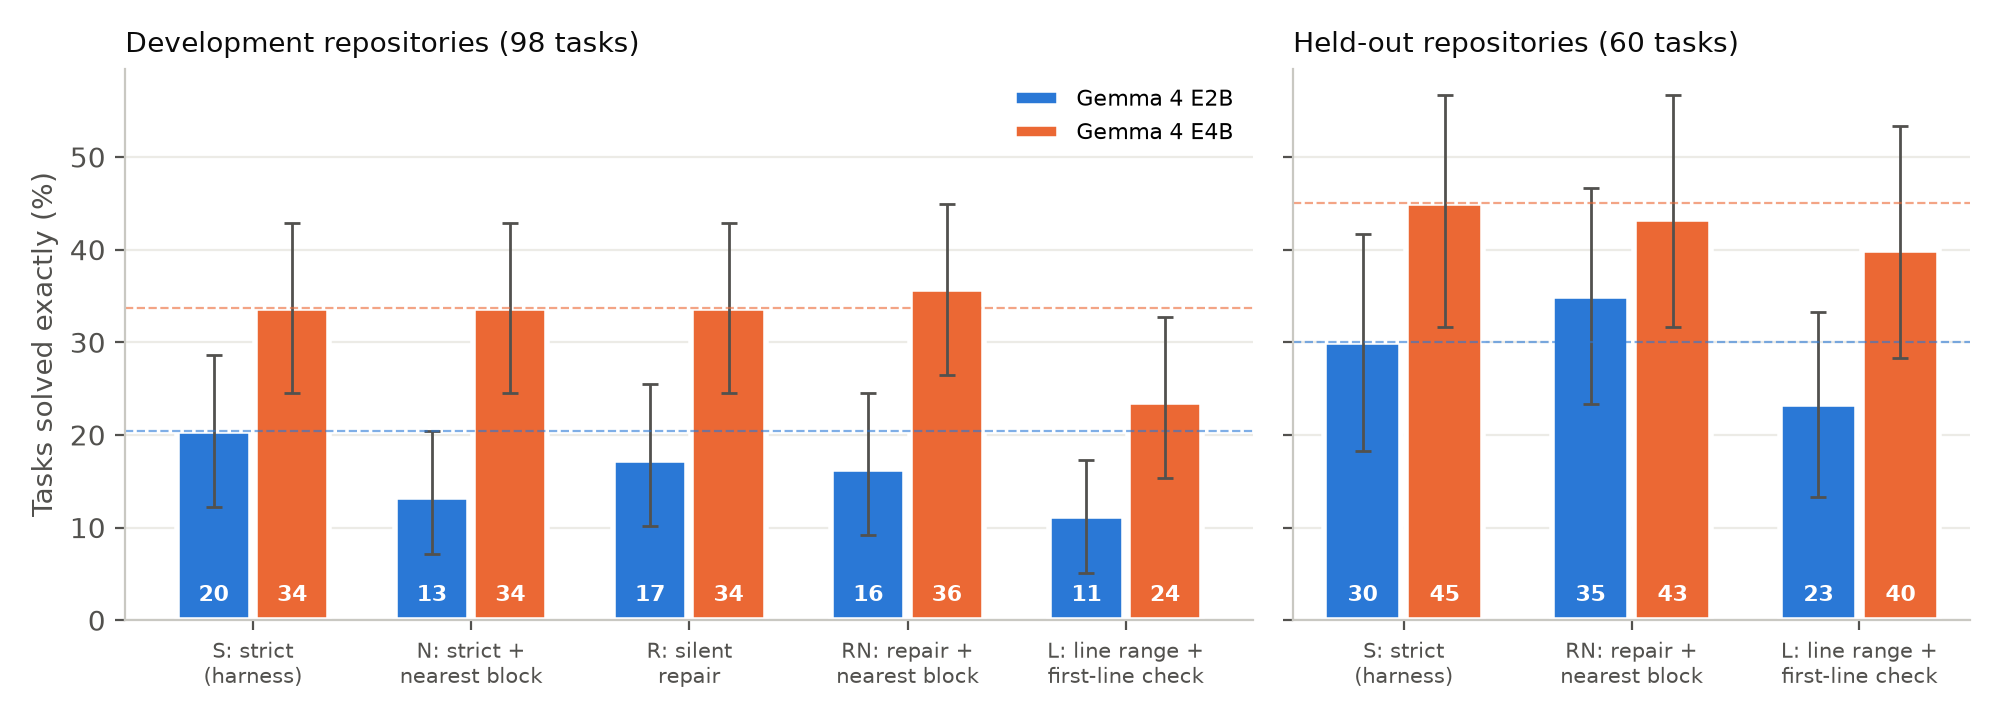
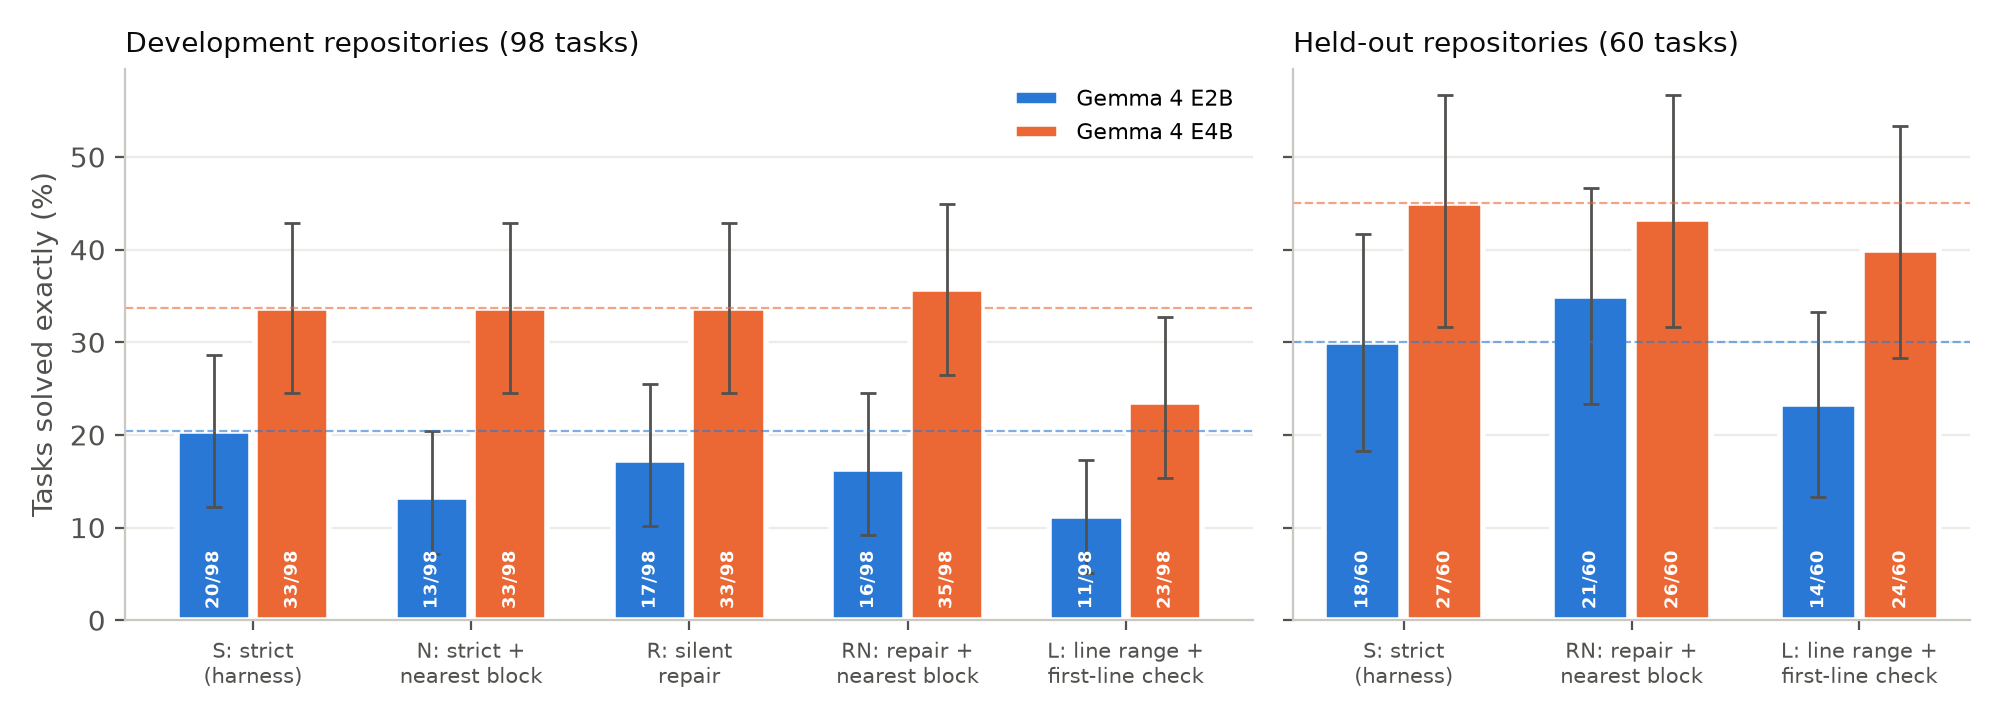
Review fixes: paired-difference CIs, Fig. 1 count labels, reproducible splits
- extra_analysis.py: 95% bootstrap interval for each condition-minus-S solved difference
  and the difference a McNemar test detects with ~80% power (results/extra.json)
- make_figs.py: Figure 1 bars labelled with task counts (solved/n); axis stays percent
- cut_splits.py: cut dev100/holdout60 from the pools (first 25/20 per repository);
  reproduces both files byte for byte
- README: clone commands for the seven repositories at pinned commits (rebuilding from
  them reproduces data/dev.jsonl and data/holdout.jsonl in order), and the details of the
  two mid-run changes moved out of the paper

diff --git a/make_figs.py b/make_figs.py
@@ -29,20 +29,21 @@ def fig1():
                              (axes[1], "holdout60", "Held-out repositories (60 tasks)")]:
         present = [(c, lab) for c, lab in conds if any(S.get(key(m, split, "target", c)) for m in ("E2B", "E4B"))]
         for mi, (model, color) in enumerate([("E2B", BLUE), ("E4B", ORANGE)]):
-            xs, ys, lo, hi = [], [], [], []
+            xs, ys, lo, hi, cnt = [], [], [], [], []
             for ci, (c, _) in enumerate(present):
                 r = S.get(key(model, split, "target", c))
                 if not r:
                     continue
                 xs.append(ci + (mi - 0.5) * 0.36)
                 ys.append(r["solved_rate"] * 100)
+                cnt.append(f"{r['solved']}/{r['n']}")
                 lo.append((r["solved_rate"] - r["solved_ci95"][0]) * 100)
                 hi.append((r["solved_ci95"][1] - r["solved_rate"]) * 100)
             if xs:
                 ax.bar(xs, ys, width=0.34, color=color, label=f"Gemma 4 {model}", edgecolor="white", linewidth=2)
                 ax.errorbar(xs, ys, yerr=[lo, hi], fmt="none", ecolor=INK2, elinewidth=1, capsize=3)
-                for x, y in zip(xs, ys):
-                    ax.text(x, 1.5, f"{y:.0f}", ha="center", va="bottom", fontsize=8, color="white", weight="bold")
+                for x, k in zip(xs, cnt):  # task counts, e.g. 20/98; the axis is percent
+                    ax.text(x, 1.2, k, ha="center", va="bottom", fontsize=6.5, color="white", weight="bold", rotation=90)
             base = S.get(key(model, split, "target", "S"))
             if base:
                 ax.axhline(base["solved_rate"] * 100, color=color, lw=0.8, ls="--", alpha=0.6)

diff --git a/extra_analysis.py b/extra_analysis.py
@@ -97,6 +97,22 @@ def main():
                           "applied": sum(1 for c in calls if c.get("applied")),
                           "errors": dict(Counter(c["info"].get("error") for c in calls if not c.get("applied"))),
                           "other_tool_calls": sum(1 for l in logs.values() for c in l["calls"] if c["name"] not in ("edit_lines", "read_file"))}
+    # paired difference in solved tasks (condition minus S): 95% bootstrap CI over tasks, and the
+    # smallest difference an exact McNemar test would detect with ~80% power at these discordant counts
+    out["paired_diff"] = {}
+    rng = __import__("random").Random(0)
+    for name, logs in sorted(runs.items()):
+        m = re.match(r"(E\dB)_(\w+?)_target_(\w+)_s1$", name)
+        if not m or m.group(3) == "S":
+            continue
+        base = runs.get(f"{m.group(1)}_{m.group(2)}_target_S_s1")
+        ids = sorted(set(base) & set(logs))
+        d = [int(bool(logs[i].get("solved"))) - int(bool(base[i].get("solved"))) for i in ids]
+        boots = sorted(sum(rng.choice(d) for _ in d) for _ in range(2000))
+        disc = sum(1 for x in d if x)
+        out["paired_diff"][name] = {"n": len(d), "diff": sum(d), "ci95": [boots[50], boots[1949]],
+                                    "discordant": disc, "mde80_tasks": round(2.8 * math.sqrt(disc), 1)}
+
     # among episodes where an edit applied but the task was not solved: how often does the final
     # file have a different number of lines than the gold file (lines dropped or duplicated)?
     out["applied_not_solved_line_count"] = {}

diff --git a/cut_splits.py b/cut_splits.py
@@ -1,0 +1,17 @@
+"""Cut the paper's task sets from the pools: the first K tasks of each repository, in file order.
+
+usage: python cut_splits.py data/dev.jsonl data/dev100.jsonl 25
+       python cut_splits.py data/holdout.jsonl data/holdout60.jsonl 20
+"""
+import json, sys
+from collections import Counter
+
+src, dst, k = sys.argv[1], sys.argv[2], int(sys.argv[3])
+seen = Counter()
+with open(src, encoding="utf-8") as f, open(dst, "w", encoding="utf-8") as g:
+    for line in f:
+        repo = json.loads(line)["repo"]
+        if seen[repo] < k:
+            seen[repo] += 1
+            g.write(line)
+print(dst, dict(seen))

diff --git a/README.md b/README.md
@@ -12,6 +12,7 @@ Short answer (158 scored tasks from seven Python repositories): the first `edit_
 |---|---|
 | `build_tasks.py` | Builds single-file edit tasks from public git history (1 to 3 hunks, 1 to 20 changed lines, 30 to 800-line file). Deterministic seed. |
 | `data/dev100.jsonl`, `data/holdout60.jsonl` | The task sets used in the paper (rich, requests, httpx, fastapi / click, flask, attrs). `data/dev.jsonl` and `data/holdout.jsonl` are the 320-task pool they were cut from (first 25 / 20 per repository). |
+| `cut_splits.py` | Cuts `dev100` / `holdout60` from the pools (first 25 / 20 tasks per repository). |
 | `appliers.py` | Edit appliers: `strict` (competition semantics), `lineno`, `ws` (unique whitespace/indent-tolerant match), `fuzzy` (difflib >= 0.8, for comparison only), plus `nearest_block` for the hint. |
 | `run_exp.py` | Agent loop against a local llama.cpp server with the competition's tool signatures. Conditions S, N, R, RN, L. |
 | `driver.py`, `start_driver.py` | Runs the experiment queue in batches (`driver.BATCHES`); `start_driver.py` launches it as a detached background process on Windows. |
@@ -28,10 +29,23 @@ Short answer (158 scored tasks from seven Python repositories): the first `edit_
 Steps 1 and 3 need no GPU. Rescoring the saved transcripts takes about 12 minutes on a laptop CPU (mostly the fuzzy replay).
 
 ```
-# 1. tasks (needs the seven repos cloned under <repos_dir>)
-python build_tasks.py <repos_dir> data/dev.jsonl 50 rich requests httpx fastapi
-python build_tasks.py <repos_dir> data/holdout.jsonl 40 click flask attrs
+# 1. tasks: clone the seven repositories at the commits used (build_tasks.py reads their full history)
+mkdir repos && cd repos
+git clone https://github.com/Textualize/rich.git    && git -C rich     checkout 9d8f9a372cc5916fd4781fec207ced7ddac2f08f
+git clone https://github.com/psf/requests.git       && git -C requests checkout 611c6162cbc4ac2020a2f91c7cfa4f3abf9bbb60
+git clone https://github.com/encode/httpx.git       && git -C httpx    checkout b5addb64f0161ff6bfe94c124ef76f6a1fba5254
+git clone https://github.com/fastapi/fastapi.git    && git -C fastapi  checkout 49a09a0d4e876b4e7d6d87fc049710263aaeaa7e
+git clone https://github.com/pallets/click.git      && git -C click    checkout 2247b35ea1c47c727d7a06e51fa280e12a863ff6
+git clone https://github.com/pallets/flask.git      && git -C flask    checkout d086db856be187255b8ec61ef409357393020f32
+git clone https://github.com/python-attrs/attrs.git && git -C attrs    checkout ee66e7274852438cc23d4240a1a9cd632fda8b52
+cd ..
+python build_tasks.py repos data/dev.jsonl 50 rich requests httpx fastapi     # 200-task pool (order matters: one seeded RNG)
+python build_tasks.py repos data/holdout.jsonl 40 click flask attrs           # 120-task pool
+python cut_splits.py data/dev.jsonl data/dev100.jsonl 25                      # first 25 per repository, in file order
+python cut_splits.py data/holdout.jsonl data/holdout60.jsonl 20               # first 20 per repository
 python positive_control.py data/dev.jsonl data/holdout.jsonl
+#    Rebuilding from these commits reproduces data/dev.jsonl and data/holdout.jsonl in the same order,
+#    and cut_splits.py reproduces dev100.jsonl and holdout60.jsonl byte for byte.
 
 # 2. model runs
 #    llama.cpp b11215 (Windows, Vulkan) and google/gemma-4-E2B-it-qat-q4_0-gguf, google/gemma-4-E4B-it-qat-q4_0-gguf.
@@ -58,7 +72,7 @@ Generation with three parallel server slots is not bitwise reproducible even wit
 - No Kaggle competition data is used or included. Tasks are rebuilt from public git history; see `THIRD_PARTY.md` for licenses.
 - Two development commits only change trailing whitespace; the scorer excludes them (98 development tasks are scored).
 - Tool calls go through llama.cpp's Gemma 4 chat template and tool-call parser, not the competition's vLLM parser. Calls whose arguments the parser could not read are counted separately (`arg_parse_errors`).
-- When a model passes a bare JSON number as a text argument, the runner (for `edit_lines`) and the scorer (for `edit_file`) read it as that text.
+- Two operational changes were made during the runs (see `runs/driver.log`). (a) From 2026-10-18 01:12, `llama-server` ran from a copy of the b11215 binary whose PE header stack reserve was raised from 1 MB to 256 MB (`tools/set_stack_reserve.py`; the copy differs from the stock file in two bytes), because long tool-call outputs overflowed the default stack (exit 0xC00000FD). Code, model, context, slots and sampling were unchanged. The driver auto-restarts the server and resends the same turn; after the change the server did not crash again. Before it, a crash stopped the driver and the unfinished task was rerun from the start. (b) During the E4B L runs, a bare JSON number passed as `expected_first_line` or `new_content` crashed the driver; it is now read as that text. This only affects the task that crashed (`httpx_50b17fdd65`, E4B dev L, rerun from the start). The scorer applies the same rule to one `edit_file` argument (`fastapi_570e592a03`, E4B intent).
 - Condition L was added after the E2B development results of the other conditions and is exploratory.
 - AI use: the author chose the topic and decided to enter. Claude (Anthropic's AI model) did most of the experiment design, harness code, running, analysis and writing. The author reviewed and approved the results and the final text.
 
